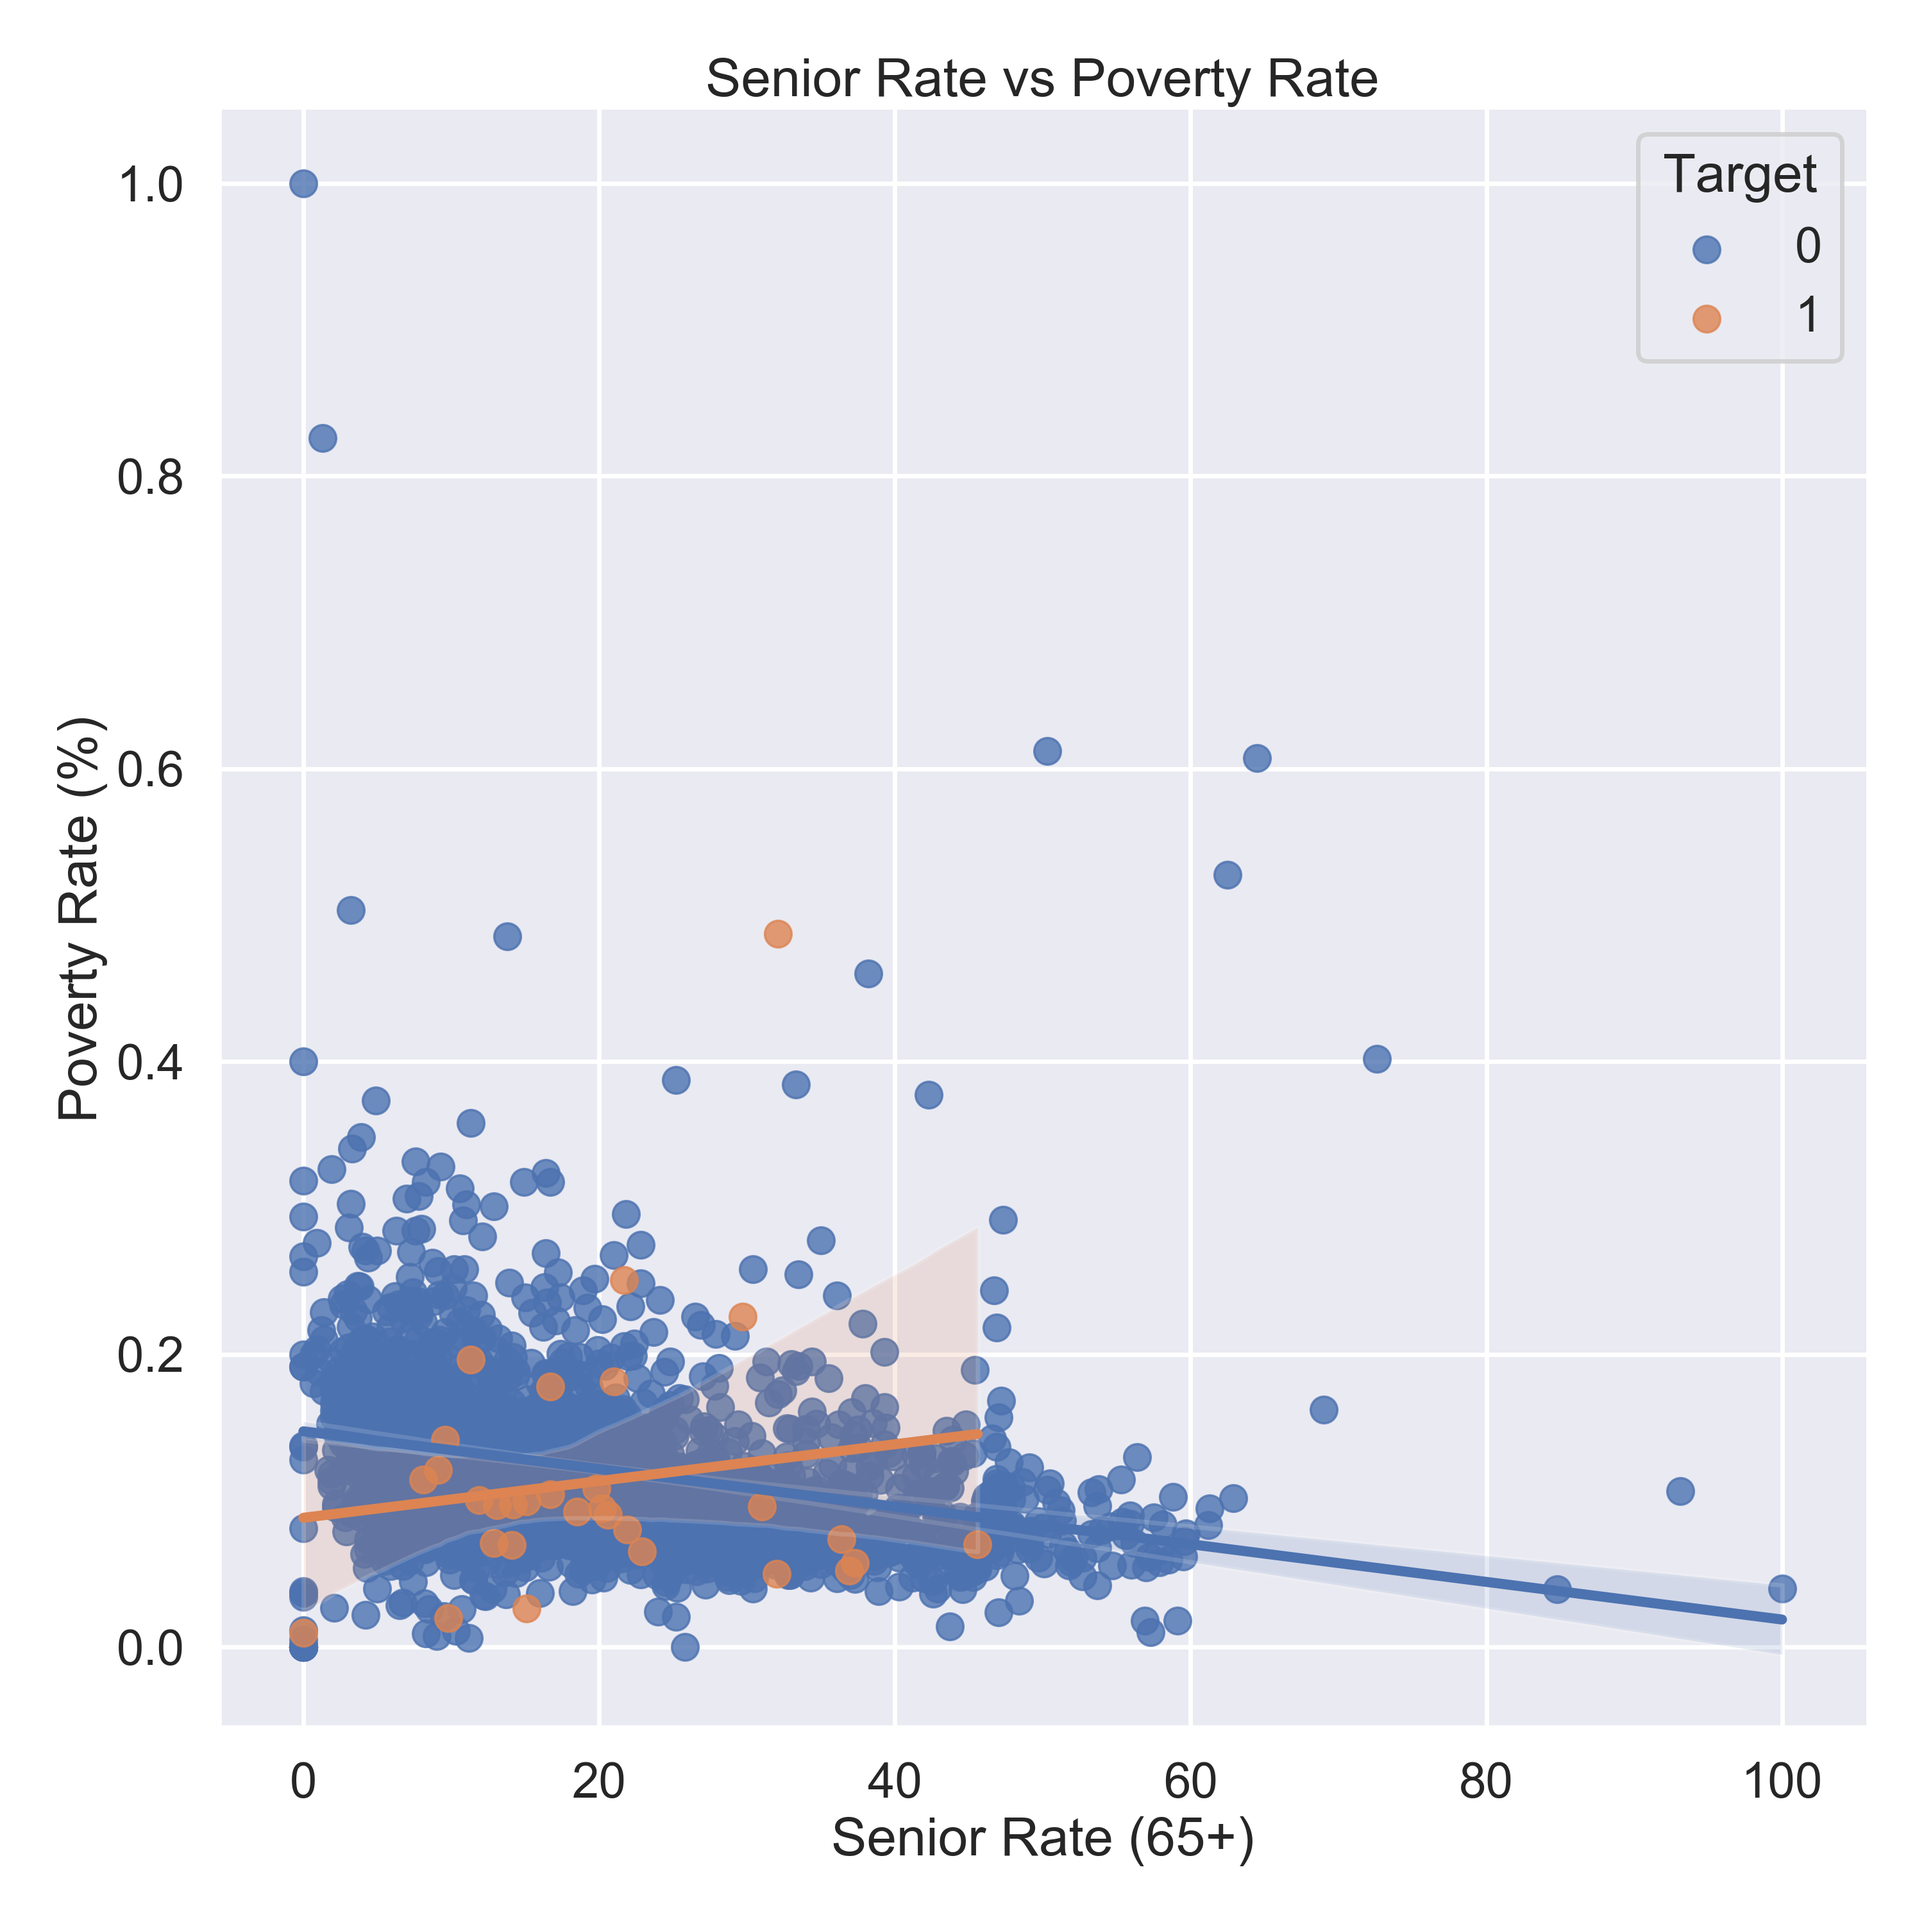
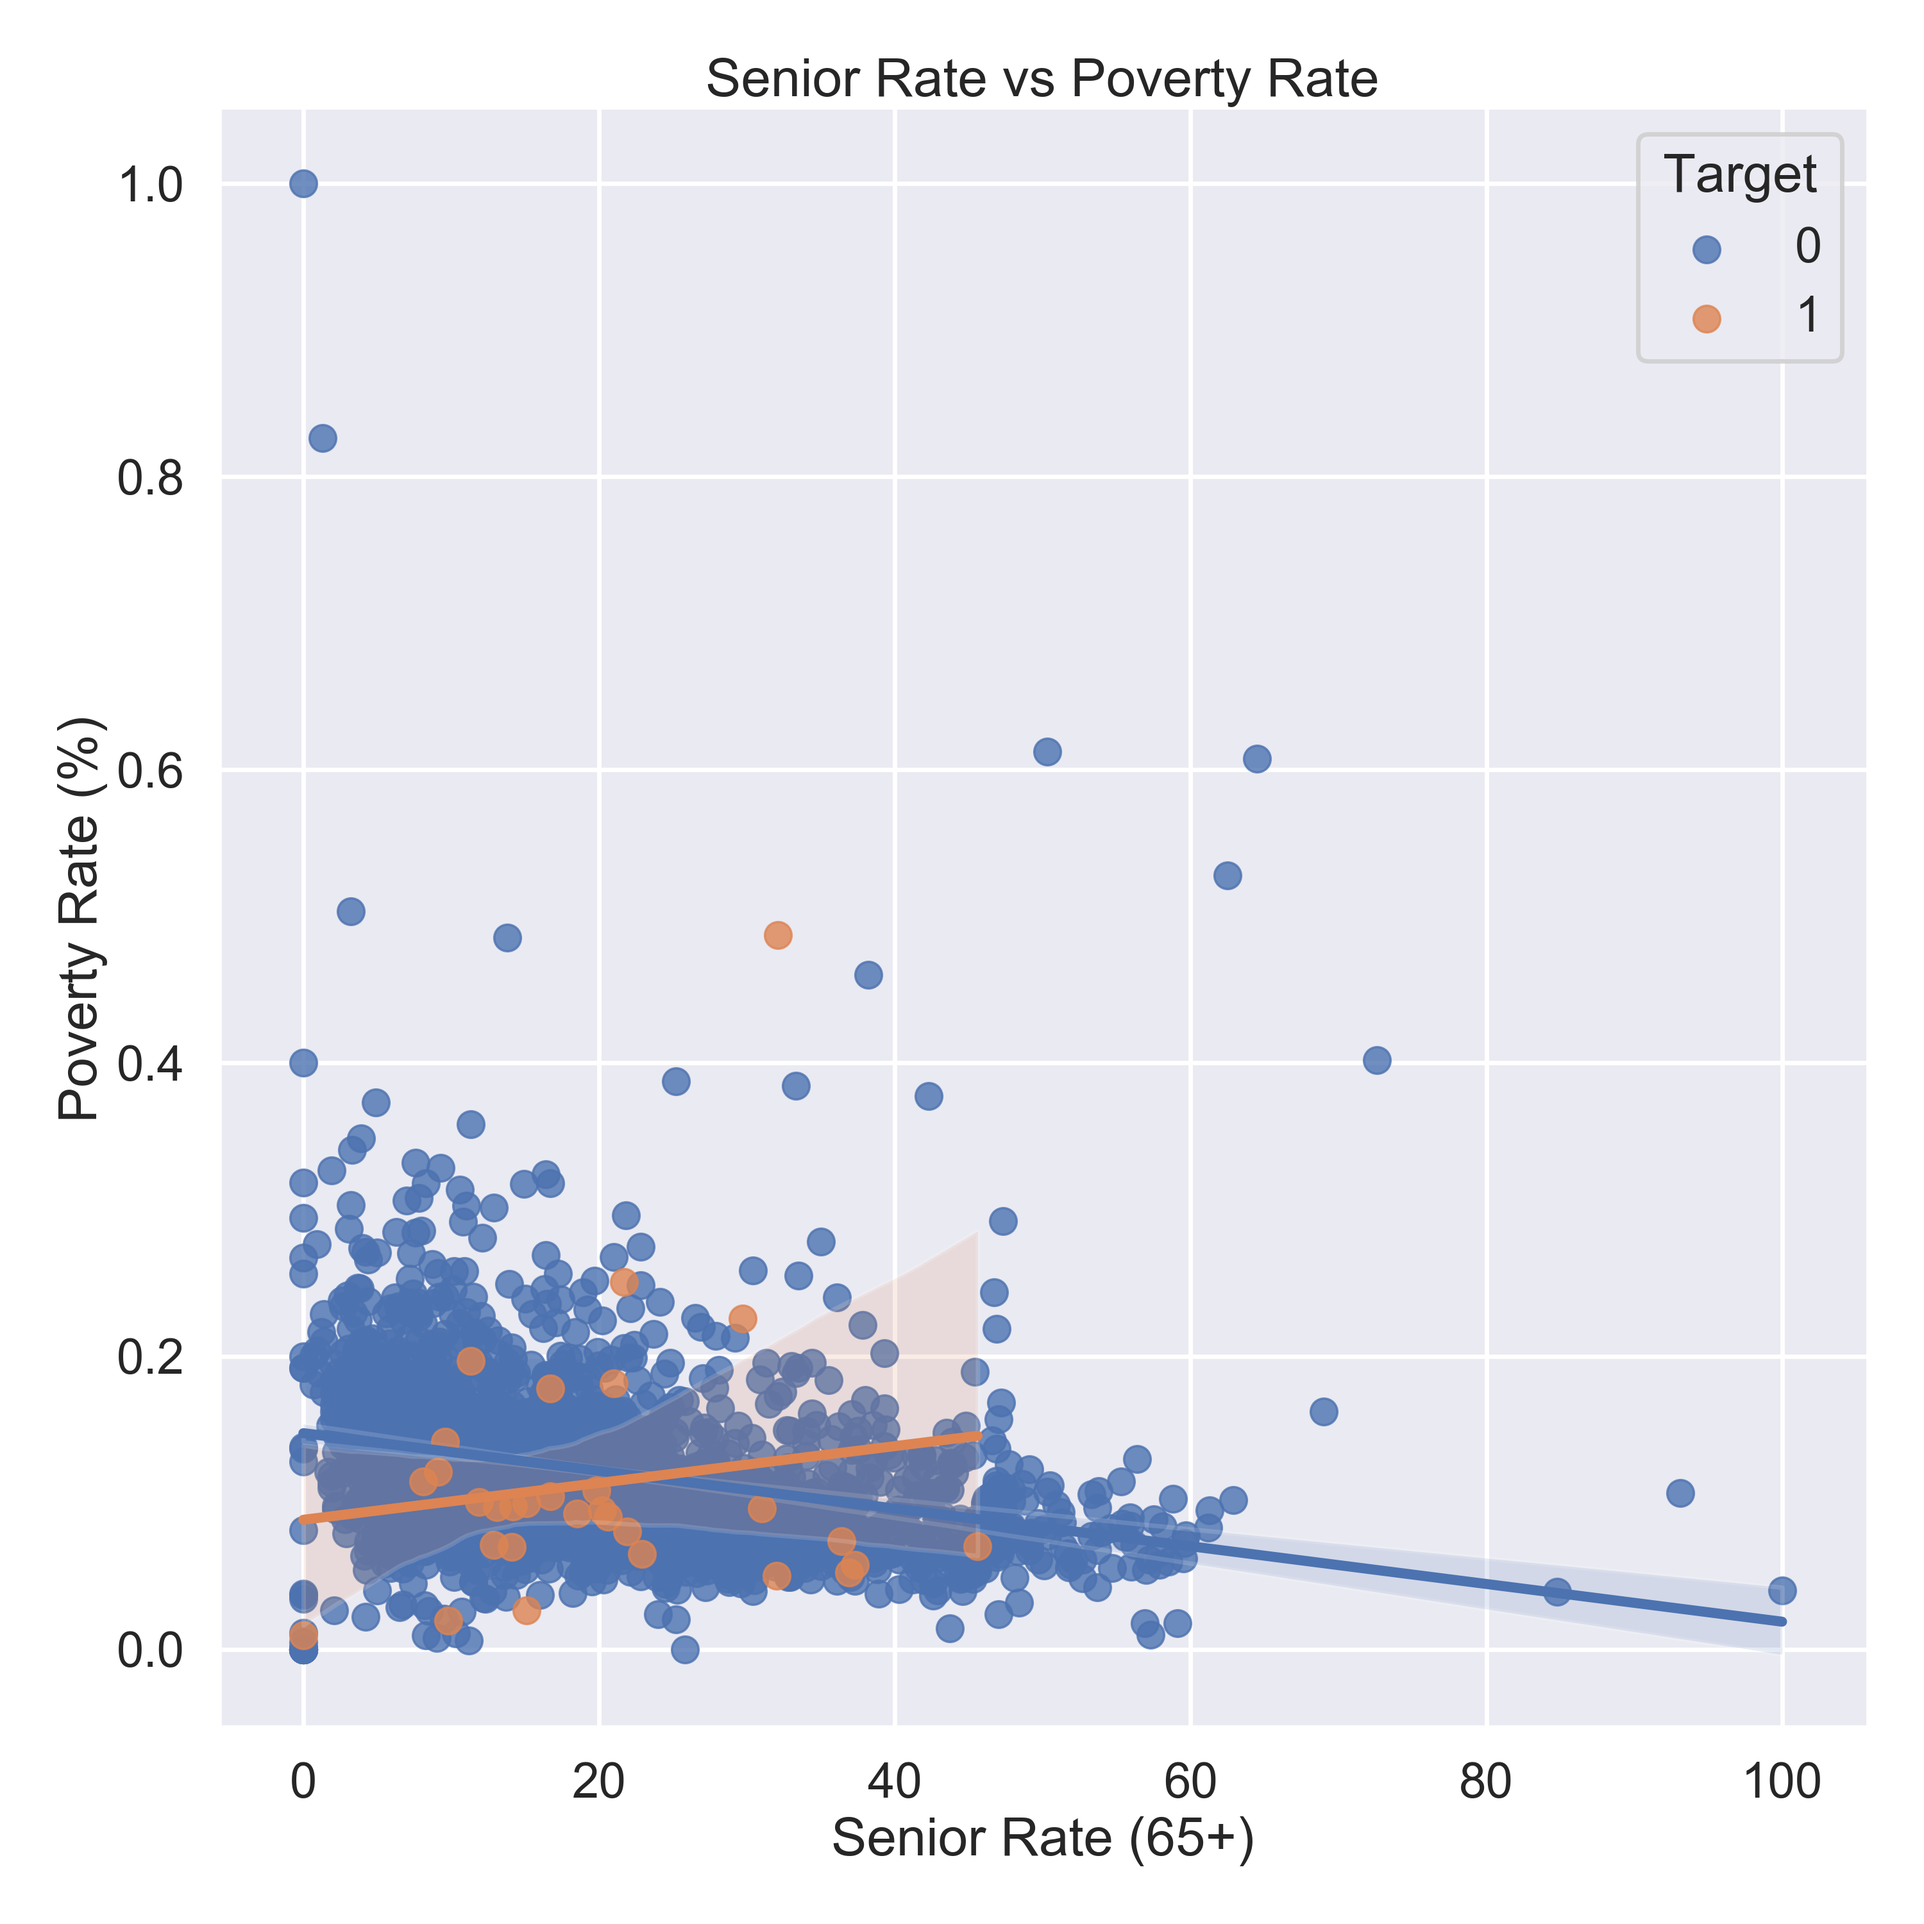
updated for README image sizing

diff --git a/src/eda_functions.py b/src/eda_functions.py
@@ -174,7 +174,7 @@ def lmplot(data, x, y, xlabel, ylabel, title, height=12, aspect=1, theme='poster
              xlabel=xlabel, 
              title=title)\
         ._legend.set_title('Target')
-    save_fig(title.lower().replace(' ', '_'))
+    save_fig(title.lower().replace(' ', '_'),resolution=75)
     plt.show();
 
 if __name__ == '__main__':

diff --git a/README.md b/README.md
@@ -98,8 +98,9 @@ After EDA, the cleaned dataset was bought into the modeling notebook, and all bo
 ## EDA Visualizations
 
 ### Binary Target 
-![Binary Target](./images/compressed/binary_target.png)
-
+<p align="center">
+<img src="./images/binary_target.png" width="500">
+</p>
 High class imbalance with:
 
 - 2165 CT
@@ -108,24 +109,36 @@ High class imbalance with:
 - 31 food deserts (1)
 
 ## Geographic distribution
-![Geospatial Distribution](./images/map_target.png)
-![Rate per County](./images/compressed/food_desert_rate_county.png)
+<p align="center">
+<img src="./images/map_target_trans_no.png" width="800">
+</p>
+<p align="center">
+<img src="./images/food_desert_rate_county.png" width="600">
+</p>
 
 <u>Observations</u>
 - No CT flagged for food desert in Manhattan
 - Although most frequent in Kings and Queens counties, highest proportion in Richmond
 
 ### White per CT with Food Deserts
-![white per ct](./images/compressed/white_per_census_tract_&_food_deserts.png)
+<p align="center">
+<img src="./images/white_per_census_tract_&_food_deserts.png">
+</p>
 
 ### Black per CT with Food Deserts
-![black per ct](./images/compressed/black_per_census_tract_&_food_deserts.png)
+<p align="center">
+<img src="./images/black_per_census_tract_&_food_deserts.png">
+</p>
 
 ### Latinx per CT with Food Deserts
-![latinx per ct](./images/compressed/latinx_per_census_tract_&_food_deserts.png)
+<p align="center">
+<img src="./images/latinx_per_census_tract_&_food_deserts.png">
+</p>
 
 ### Asian per CT with Food Deserts
-![asian per ct](./images/compressed/asian_per_census_tract_&_food_deserts.png)
+<p align="center">
+<img src="./images/asian_per_census_tract_&_food_deserts.png">
+</p>
 
 <u>Observations</u>
 - Most food deserts in areas with low rate of white and asian populations
@@ -133,7 +146,9 @@ High class imbalance with:
 - Some food deserts in areas with high rate of latinx population
 
 ### Median Income vs. Poverty Rate
-![Median Income vs Poverty Rate](./images/compressed/income_pov_rate.png)
+<p align="center">
+<img src="./images/income_pov_rate.png" width="600">
+</p>
 
 <u>Observations</u>
 - Highly negatively correlated features suggesting more significant weights in modeling
@@ -142,7 +157,9 @@ High class imbalance with:
 Our final model is Decision Tree Classifier (DTC) with GridSearch. 
 
 #### Decision Tree Classifer Plot
-![Decision Tree Plot](./images/decision_tree_plot.png)
+<p align="center">
+<img src="./images/decision_tree_plot.png">
+</p>
 
 Final model results indicate most efficient feature splitting on:
 
@@ -173,12 +190,16 @@ This tells us that although that low-access and low-income are the primary indic
 **Recall** = .85
 
 **Decision Tree Classifer Confusion Matrix**
-![DTC2 Confusion Matrix](./images/compressed/dtc_con_matrix_with_grid.png)
+<p align="center">
+<img src="./images/dtc_con_matrix_with_grid.png" width="600">
+</p>
 
 In this instance `F1` was chosen as the primary metric with `Recall` secondary. This is because with the goal of expanded FRESH coverage to areas identified as food deserts, or introducing urban agriculture initiatives, limitation of False Positives was of the utmost importance. We would not want to identify an area as a food desert, and start shifting resources to implement zoning or tax incentives only to find it is not in need of supermarket expansion. Therefore, utilizing `F1` as a primary metric to achieve a more harmonic mean was desirable. However, limiting False Negatives (not identfying a food desert when it is) was important as well. Therefore, `Recall` was chosen as a secondary metric to limit False Negatives.
 
 ### Geospatial depictions of Final Model Predictions
-![Model Predictions](./images/dtc_final_model_predictions.png)
+<p align="center">
+<img src="./images/dtc_final_model_predictions.png">
+</p>
 
 Model predicted 30 (out of 31) values as True and 2134 as False.
 - True Positive - 30 Olive CT are those that were predicted corectly 
@@ -188,7 +209,9 @@ Model predicted 30 (out of 31) values as True and 2134 as False.
 - Missing Values - lightgrey CT that do not have values i.e. parks, cemetaries etc...
 
 ###  Geospatial depictions of Final Model Predictions with FRESH geometry overlay
-![Model Predictions w FRESH](./images/compressed/dtc_final_model_predictions_with_fresh.png)
+<p align="center">
+<img src="./images/compressed/dtc_final_model_predictions_with_fresh.png">
+</p>
 
 The above map shows us that most food deserts lay within FRESH boundaries, however there are some that do not, most prominently in Queens and Staten Island. That said, these food deserts classifications are based on a study conducted in 2017, and the FRESH data is recent, therefore this model would need to be run on newer data, then compared and contrasted with FRESH boundaries prior to invoking any policy changes. 
 
